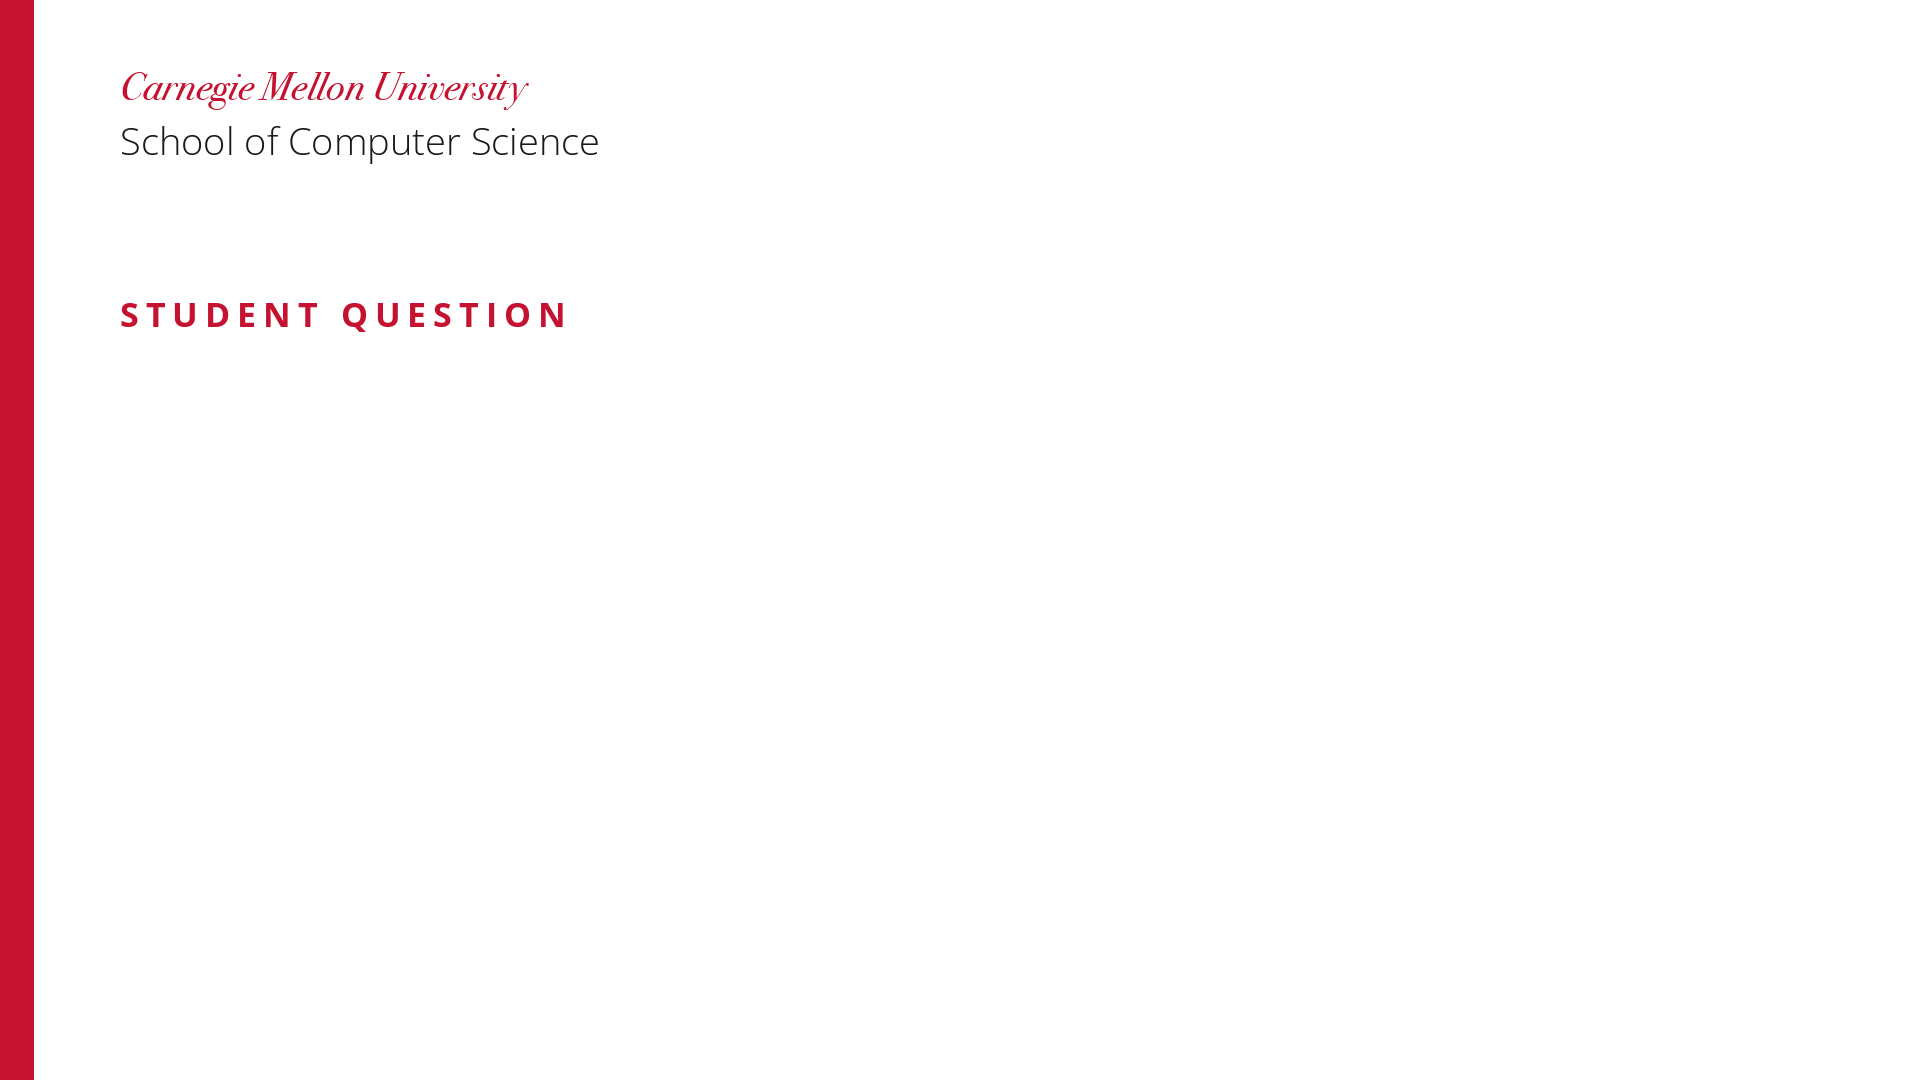
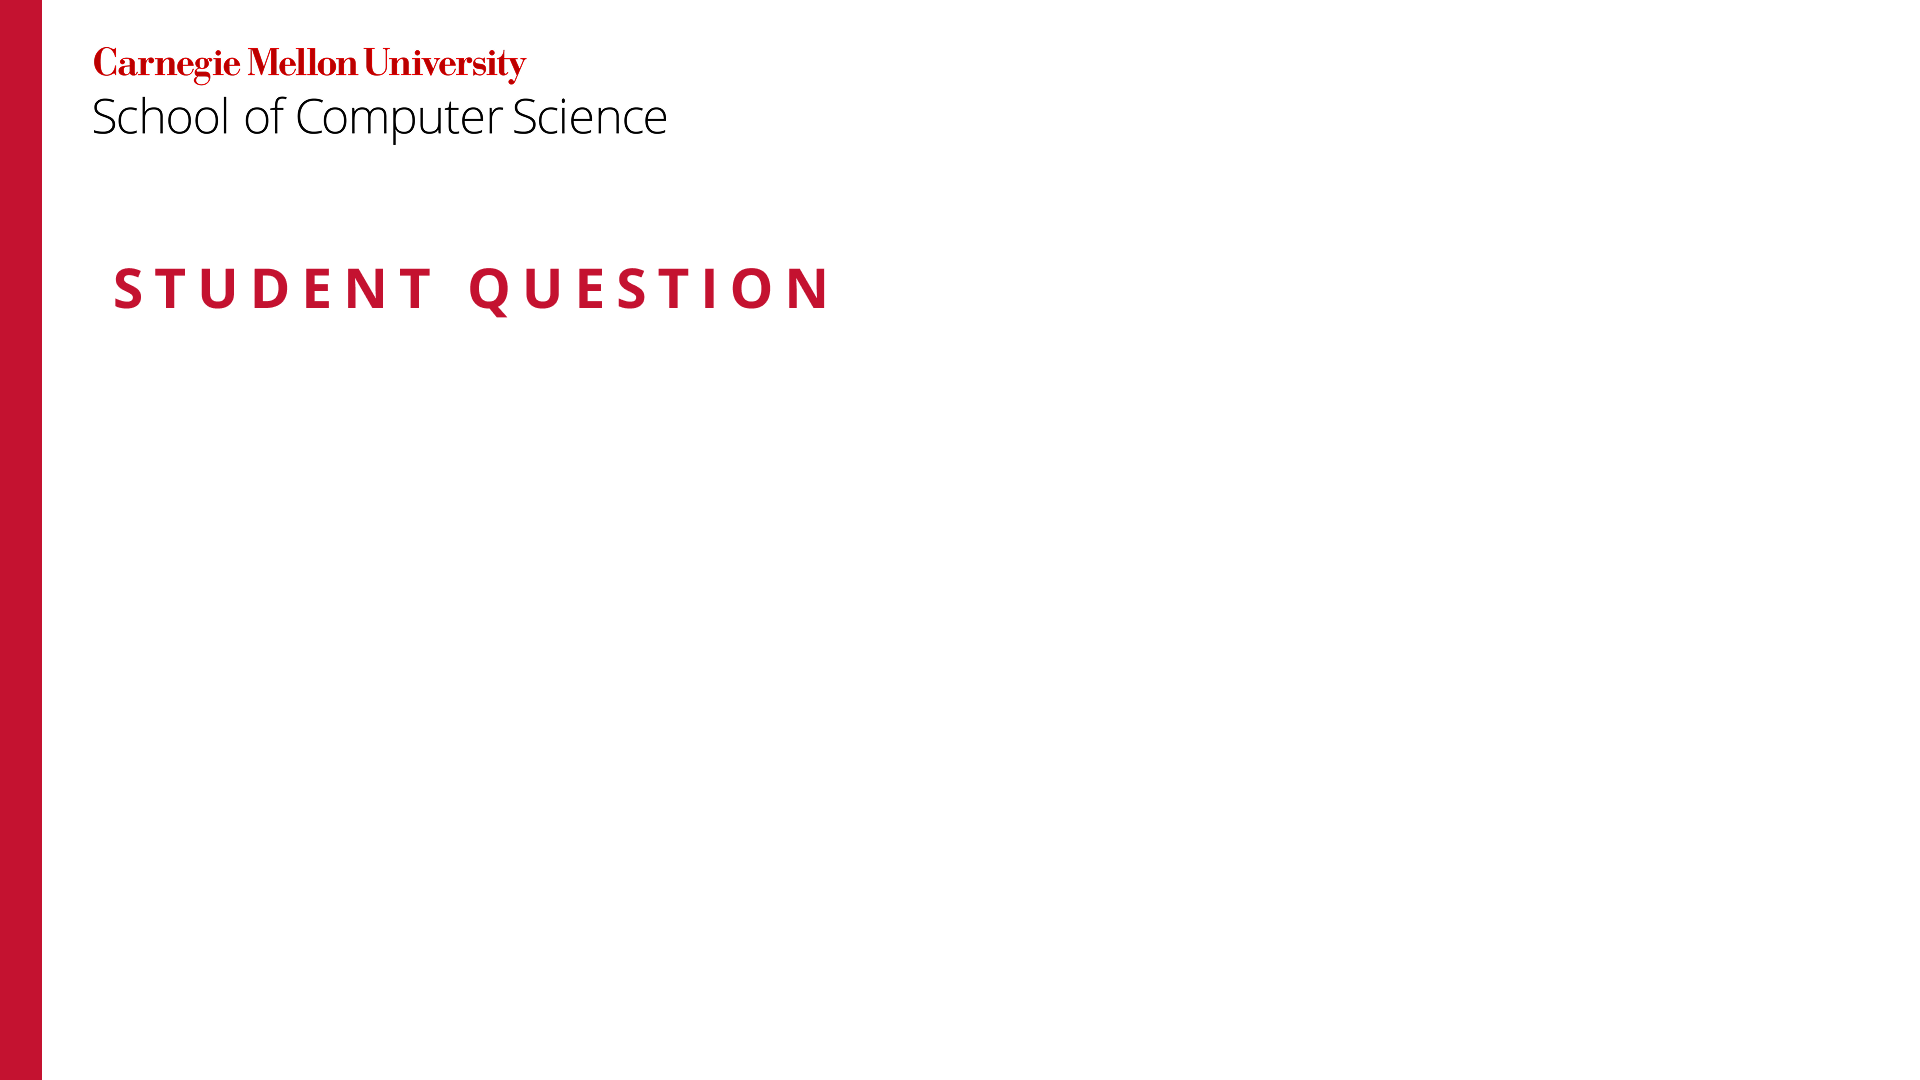
assets: new question card, and align the text to its heading
The replacement card uses the real CMU wordmark and a larger STUDENT QUESTION
heading, and its geometry moved: the red rail is 42px wide (was 33), the
heading starts at x=115 (was 120) and ends at y=316 (was 331). Text is set
flush with the heading, so TEXT_LEFT follows it.

Changed region(s): [[0.0, 0.0, 0.3438, 1.0], [0.0625, 0.2444, 0.4375, 0.3056]]

diff --git a/src/audio/cards.py b/src/audio/cards.py
@@ -137,7 +137,7 @@ TEXT_TOP, TEXT_BOTTOM = 371, 760
 # left from here rather than centred: the card is a designed layout, and a
 # centred ragged block under a flush-left "STUDENT QUESTION" heading reads as an
 # accident.
-TEXT_LEFT, TEXT_RIGHT = 120, 1800
+TEXT_LEFT, TEXT_RIGHT = 115, 1800
 
 # Above this, a card renders as a wall of small text. Measured: 3 of 4
 # questions on lecture 12 came back at 18-79 chars, one at 311.
